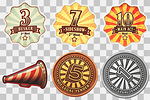
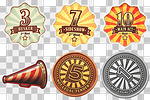
Исправить прозрачность монет и начальный порядок слайдов

diff --git a/modules/js/Game.js b/modules/js/Game.js
@@ -244,8 +244,15 @@ export class Game {
             tableCounter: 'bank',
         });
 
-        this.playerIds = Object.values(gamedatas.players).map(player => Number(player.id));
+        const playerIds = Object.values(gamedatas.players).map(player => Number(player.id));
         this.visiblePlayerId = this.bga.players.getCurrentPlayerId();
+        if (!playerIds.includes(this.visiblePlayerId)) {
+            this.visiblePlayerId = playerIds[0];
+        }
+        this.playerIds = [
+            this.visiblePlayerId,
+            ...playerIds.filter(playerId => playerId !== this.visiblePlayerId),
+        ];
         Object.values(gamedatas.players).forEach(player => {
             const playerId = Number(player.id);
             if (player.money !== undefined) {
@@ -275,6 +282,12 @@ export class Game {
                 <div class="bigtop-card-row" id="bigtop-completed-${playerId}"></div>
             `);
             document.getElementById('bigtop-player-track').appendChild(table);
+        });
+
+        this.playerIds.forEach(playerId => {
+            document.getElementById('bigtop-player-track').appendChild(
+                document.getElementById(`bigtop-player-table-${playerId}`),
+            );
         });
 
         gamedatas.attractions.forEach(card => {

diff --git a/bigtop.css b/bigtop.css
@@ -406,6 +406,7 @@ body,
 
 .bigtop-bank-coin {
     animation: bigtop-bank-coin-spin 3.5s linear infinite;
+    opacity: 0.75;
     background-image: url('img/elements-50.png');
     background-position: 100% 100%;
     background-repeat: no-repeat;
@@ -553,6 +554,7 @@ html[data-theme="dark"] #bigtop-game {
     background-size: 300% 200%;
     display: inline-block;
     height: 18px;
+    opacity: 0.75;
     vertical-align: -4px;
     width: 18px;
 }

diff --git a/HANDOFF.md b/HANDOFF.md
@@ -6,12 +6,12 @@
 
 Выполнен пакет из трёх задач:
 
-- Случайные эффекты степпера заменены одной анимацией масштаба: при повышении ставки `1 → 1.35 → 1`, при понижении `1 → 0.7 → 1`, длительность 320 мс.
-- В верхнюю панель игрока добавлена подпись `Bank:` перед количеством монет и иконкой.
-- В игровое поле банка добавлена монета из `elements-50.png`, значение увеличено до 24 px, монета вращается вокруг вертикальной оси `Y` за 3.5 с.
-- При `prefers-reduced-motion` анимация степпера и вращение монеты банка отключены.
+- Банковские иконки в шапке и игровом поле получили `opacity: 0.75`.
+- Начальный порядок ленты изменён: текущий пользователь находится на первом слайде, остальные игроки — только справа. Порядок `playerIds` и фактический порядок `<section>` в `#bigtop-player-track` синхронизирован.
+- Выяснено, что исходный `elements.png` полностью непрозрачен. Спрайты `elements-18.png` и `elements-50.png` пересозданы с удалением внешнего фона, поэтому монеты лежат непосредственно на печатных кружках без светлого квадрата.
+- Координаты монет на Human Cannonball и Рингмастере проверены и оставлены без изменений.
 
-Предыдущий коммит: `b9bb799 Перенести руку выше игровых зон`.
+Предыдущий коммит: `3b1ce9b Обновить анимацию ставки и отображение банка`.
 
 ## Что уже реализовано
 
@@ -47,6 +47,7 @@ Chrome DevTools MCP подключён и используется для про
 - Анимированная лента проверена координатами: предыдущий слайд находится слева, следующий — справа. Во время перехода сдвиг изменился с `−3130` до `−3656.48` за 100 мс и достиг `−4695`; при reduced motion длительность перехода равна `0s`.
 - Новый порядок блоков подтверждён на столе `1009391`: нижняя граница руки совпадает с верхней границей слайдера (`646.3 px`), рука находится выше игровых зон, `translateX(-300%)` ленты сохранился.
 - Пакет изменений проверен там же: шапка показывает `Bank: 22`, банк имеет размер текста 24 px и монету с `rotateY` за 3.5 с. При повышении ставки один эффект использует масштаб `1.35`, при понижении — `0.7`; при reduced motion обе анимации отключены.
+- Следующий пакет проверен на столе `1009391`: обе банковские иконки имеют прозрачность `0.75`; лента стартует с `translateX(0%)`, правая граница текущего и левая граница следующего слайда совпадают (`1580 px`). Маленькие спрайты имеют альфа-канал `0…255`, внешний фон монет прозрачен.
 - Ошибок игрового PHP/JS в проверенных сценариях нет. Ошибки инфраструктуры BGA `ly_metasite.js` при анимации журнала и автозапуске звука не относятся к коду игры.
 
 ## Что осталось проверить или улучшить
